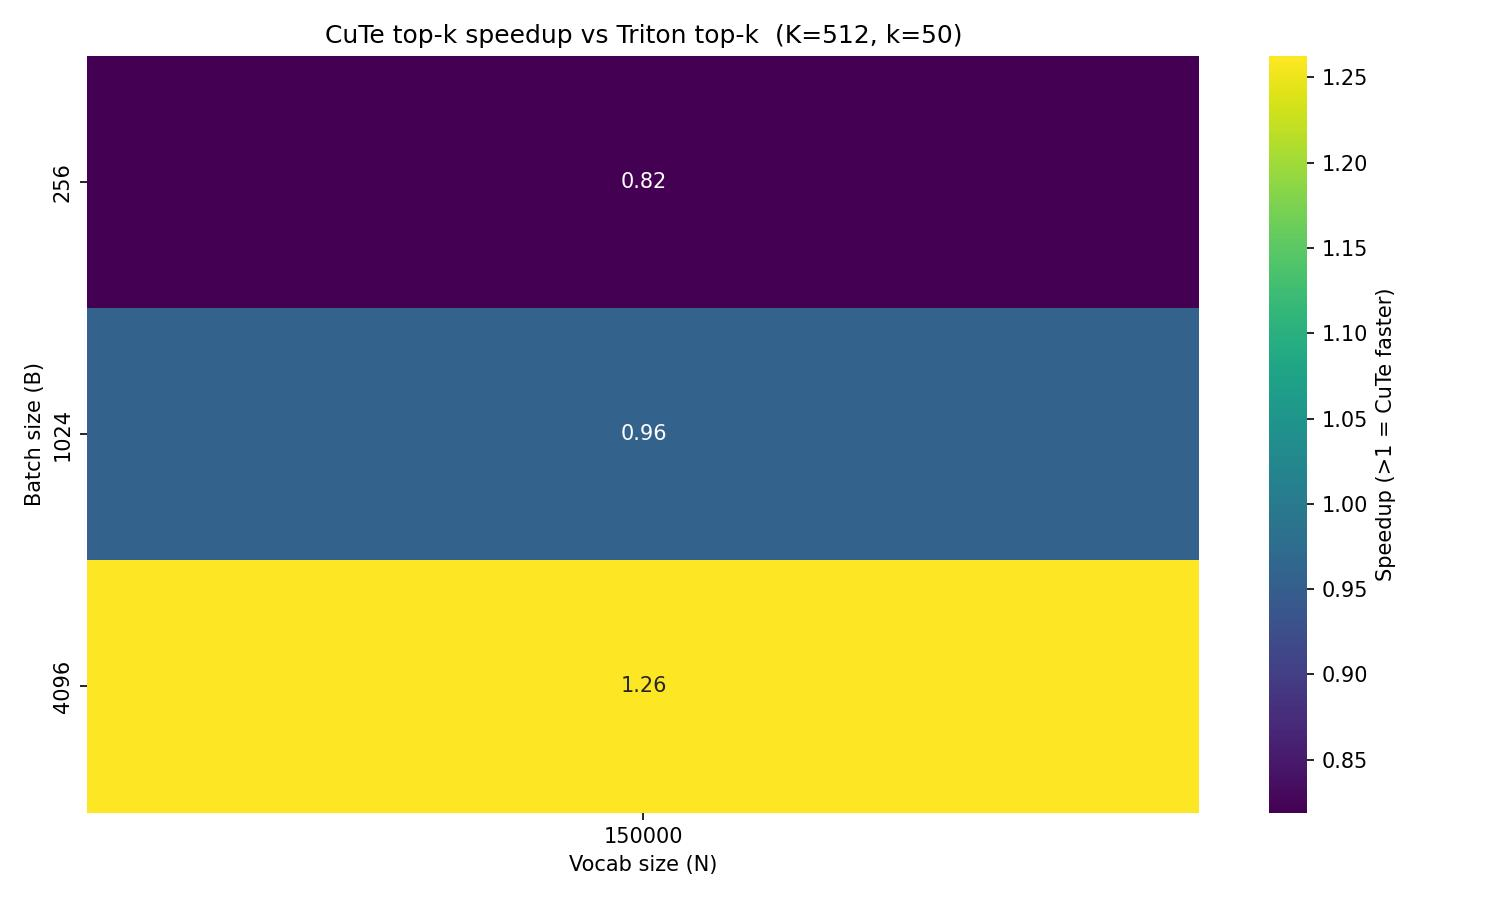
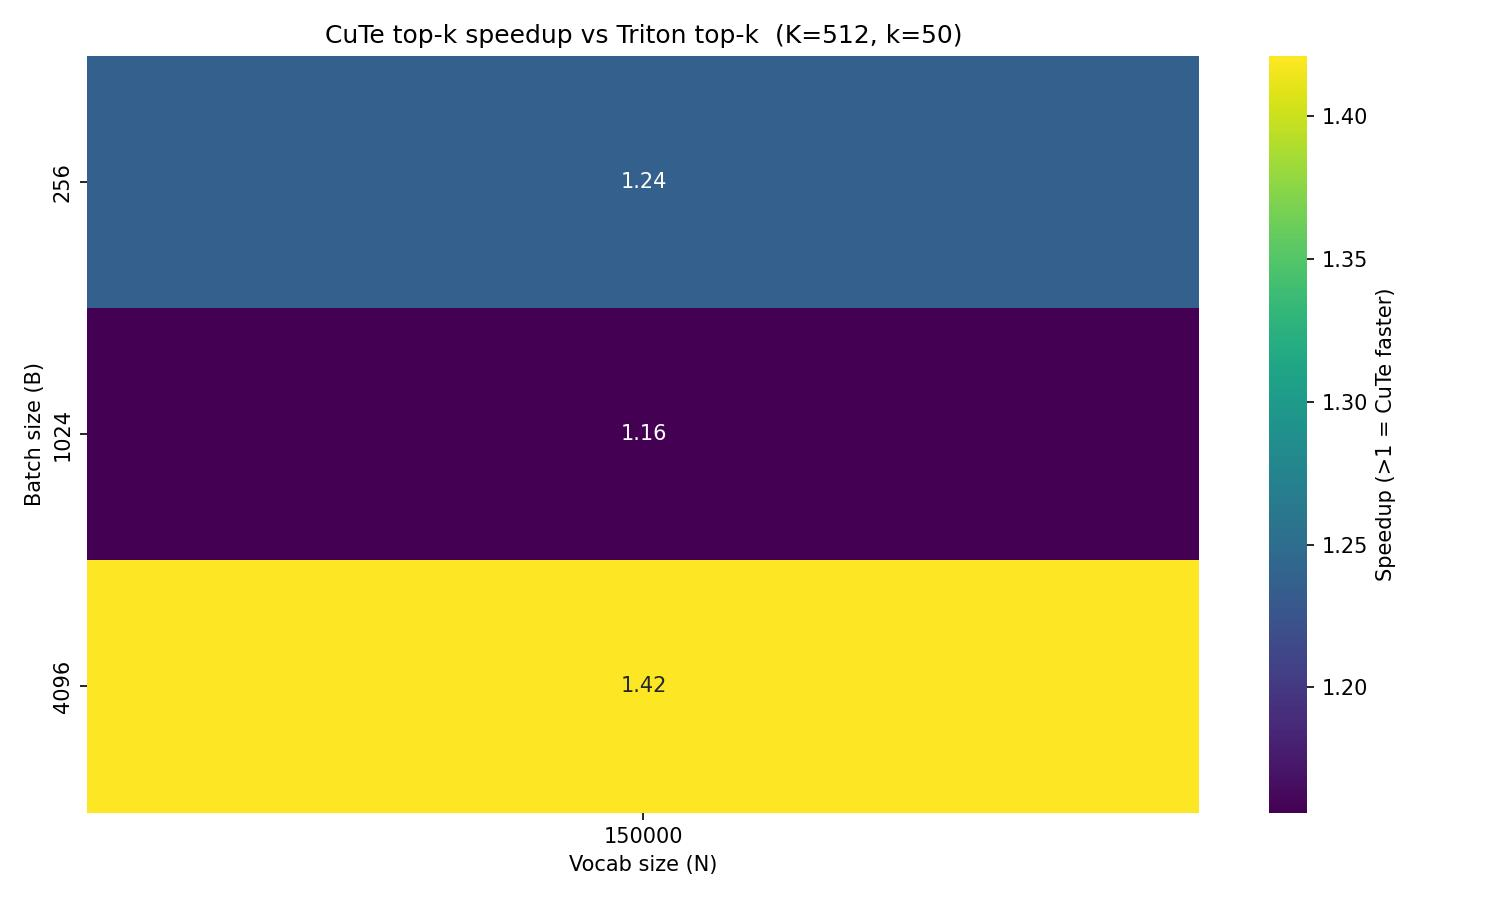
Update

diff --git a/rectokens/kernels/constrained_node_transition_cute.py b/rectokens/kernels/constrained_node_transition_cute.py
@@ -119,7 +119,7 @@ class _FusedTopKKernel:
         self._K                = K             # baked into compiled kernel as Python int
         # 64 branch iterations × K_PER_LANE=44 = 2,816 unrolled ops — compiles quickly.
         # Reduces grid_y from 32 to 8 (4× less A reloading vs BRANCHES_PER_BLOCK=16).
-        self.BRANCHES_PER_BLOCK = 64
+        self.BRANCHES_PER_BLOCK = min(64, max_branches) if B > 1024 else min(16, max_branches)
         self._jit_executor     = None          # populated on first launch(), None until then
 
     # -- host-side launcher (JIT-compiled) ----------------------------------
